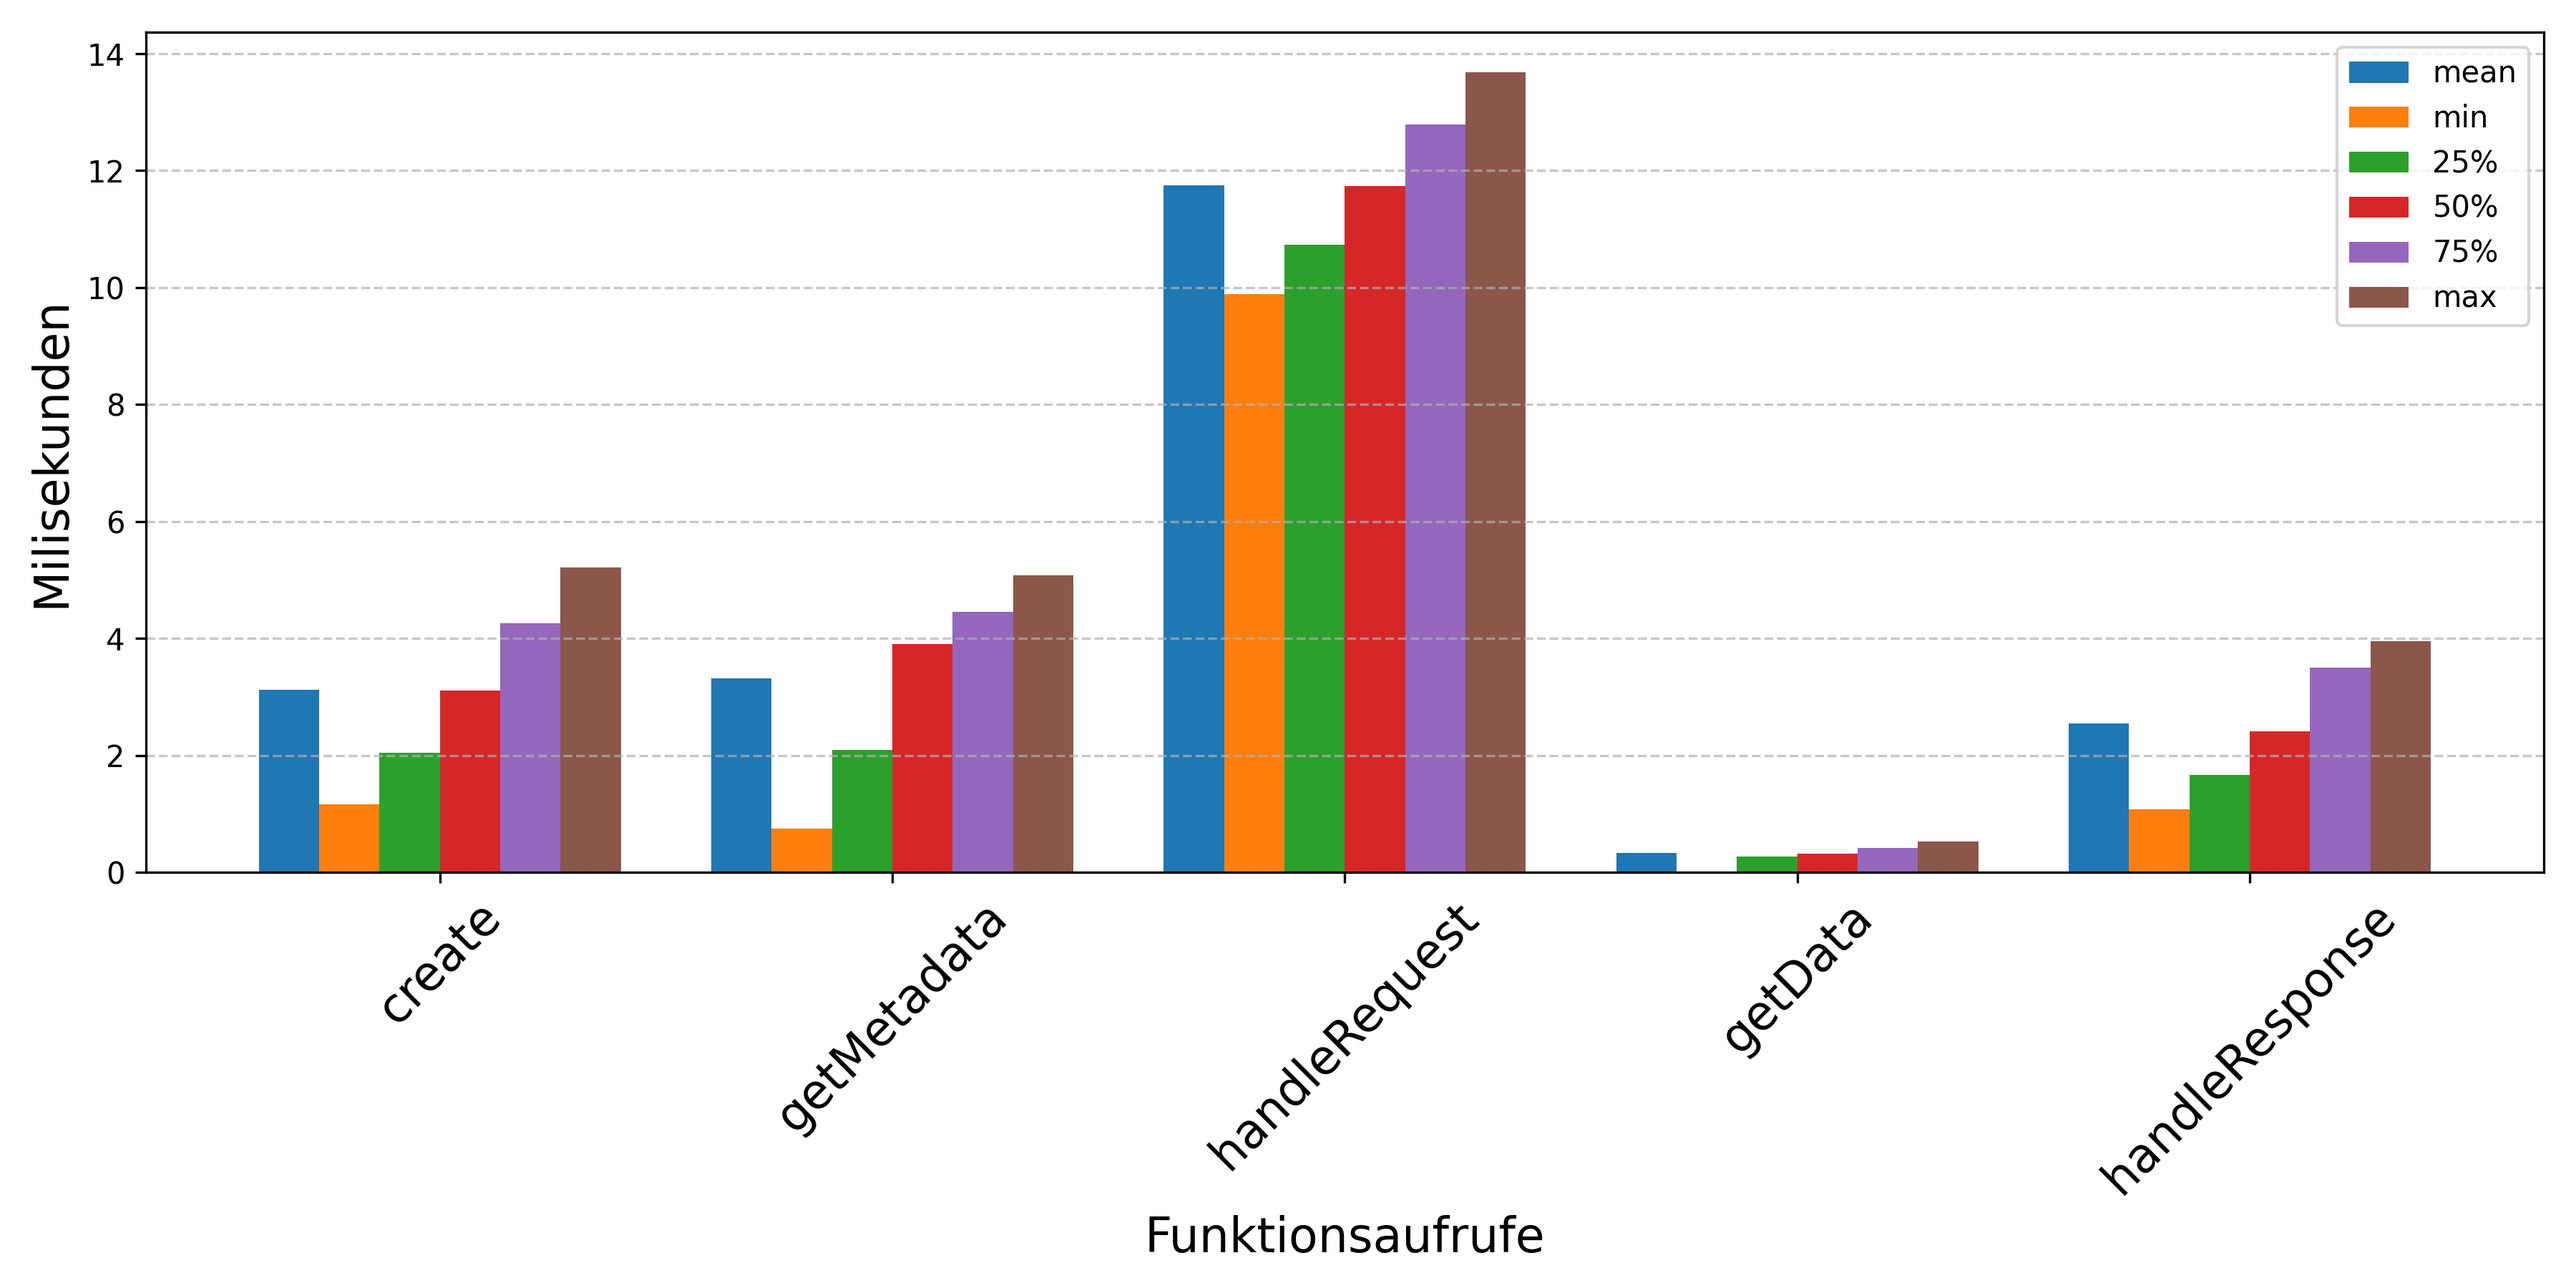
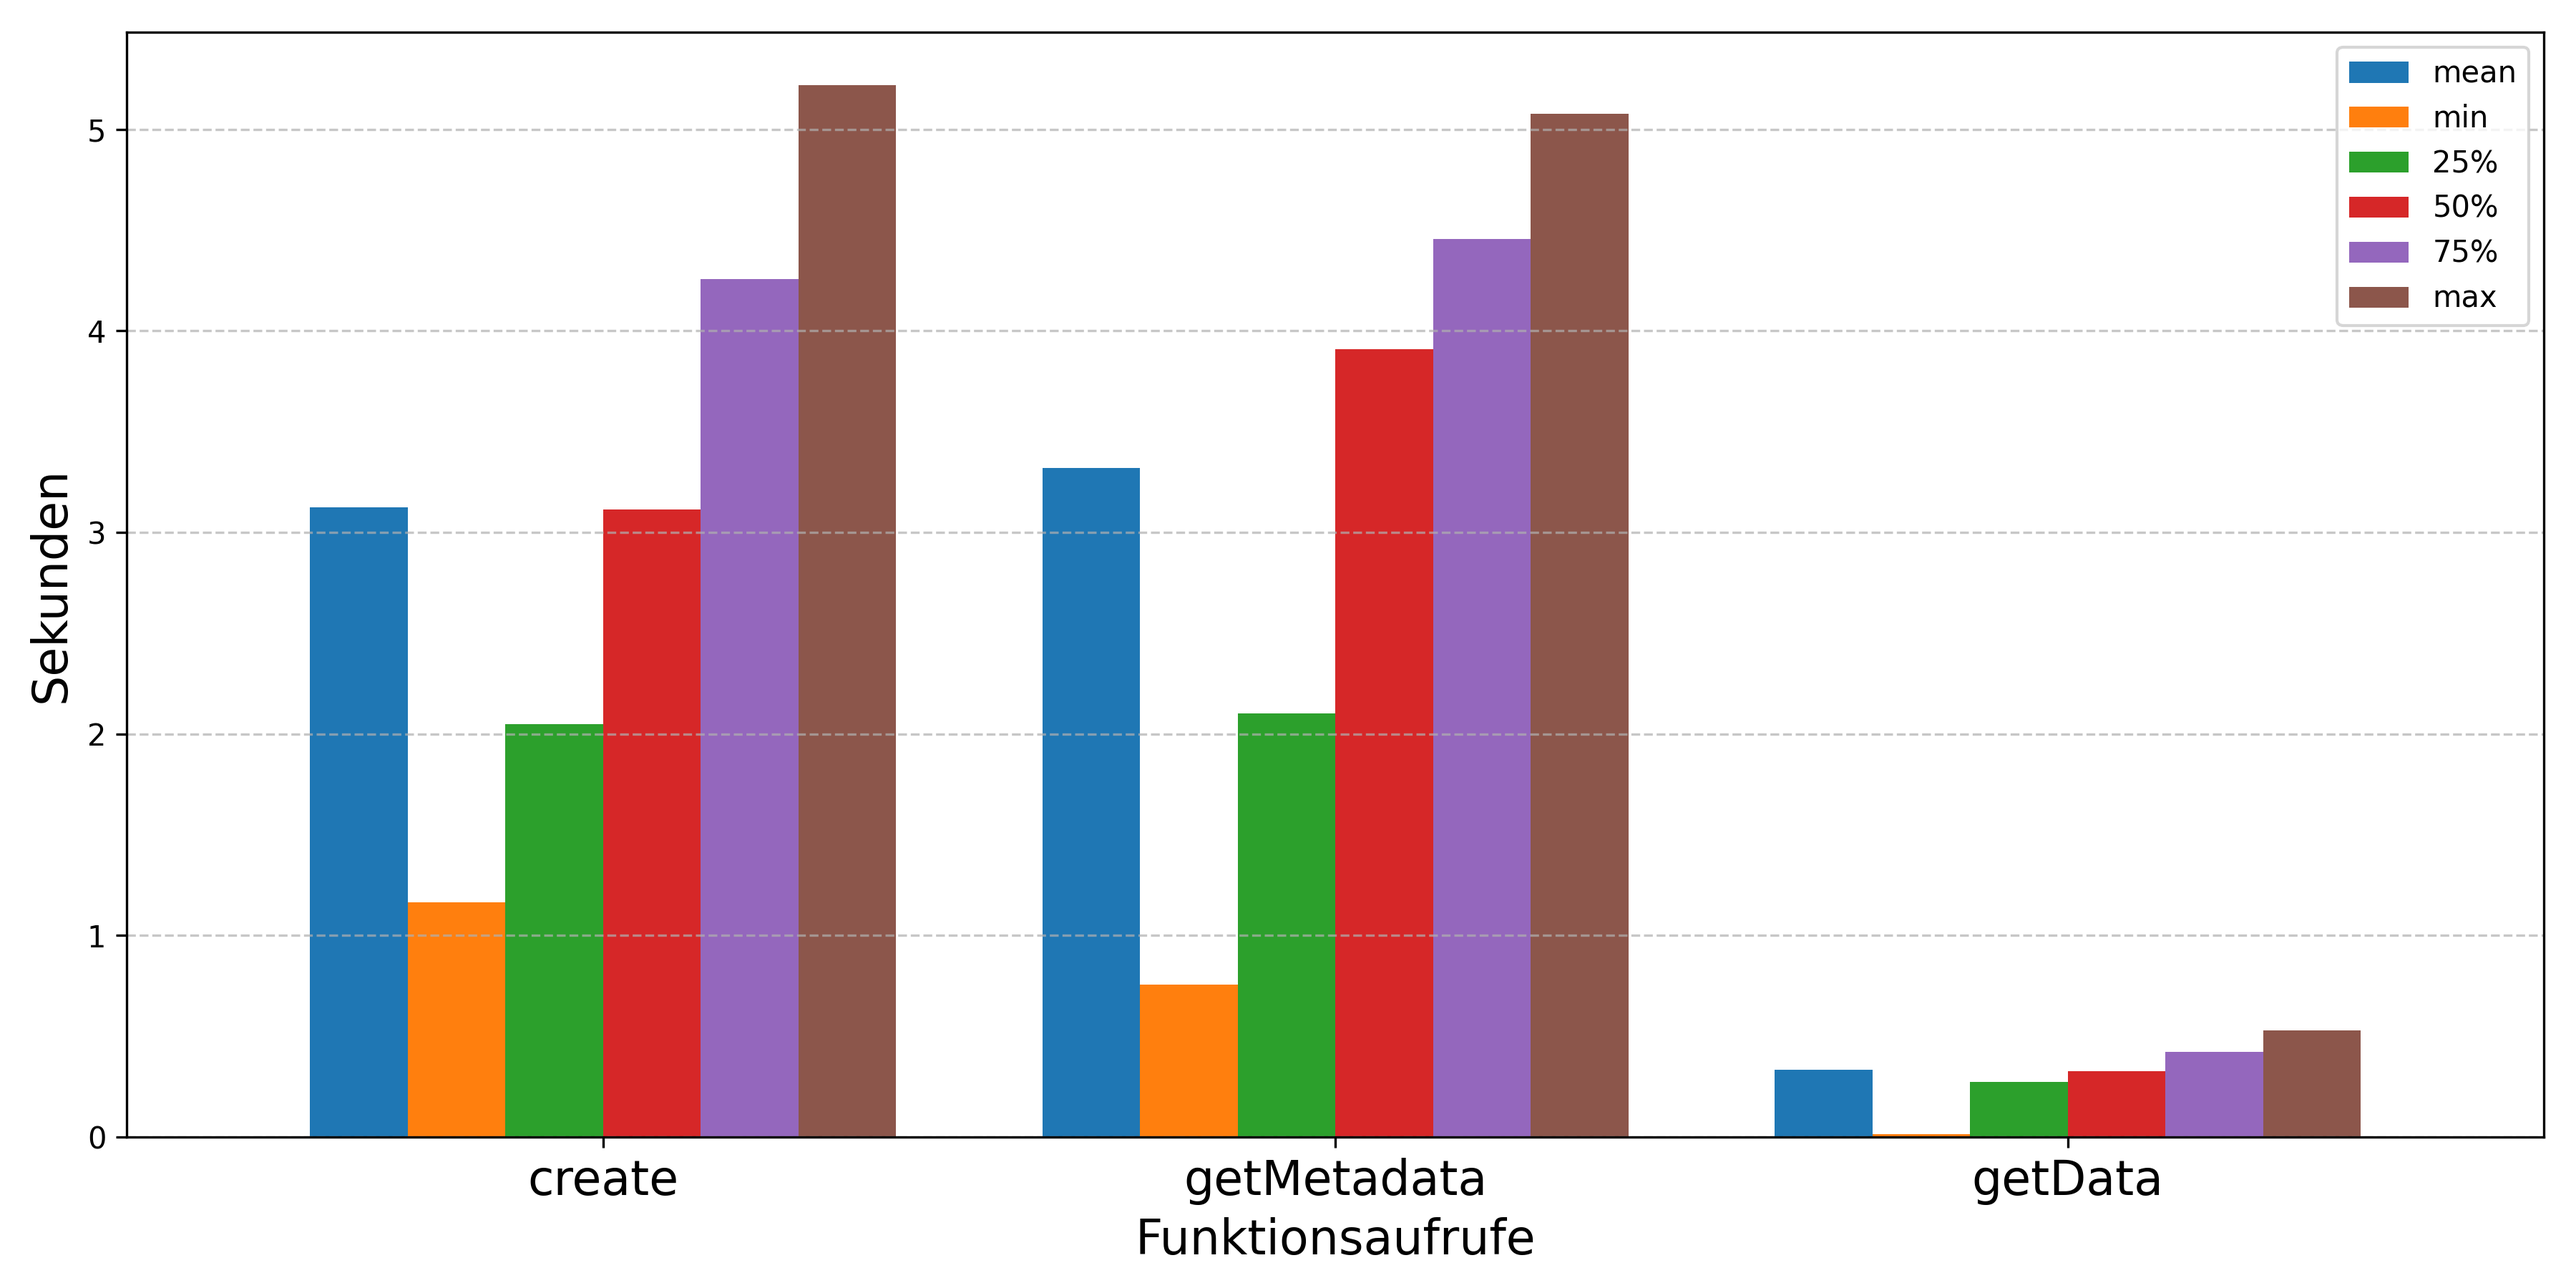
small graph change

diff --git a/Fabric/basic application/application-gateway-javascript/metrics/metrics.py b/Fabric/basic application/application-gateway-javascript/metrics/metrics.py
@@ -18,14 +18,14 @@ if __name__ == "__main__":
             df = pd.DataFrame(d[k], columns=[k]).describe()
             print(df)
             descriptions.append(df)
-        merged = pd.concat(descriptions, axis=1).drop(["count", "std"], axis=0)
+        merged = pd.concat(descriptions, axis=1).drop(["count", "std"], axis=0).drop(["handleRequest", "handleResponse"], axis=1)
         transposed = merged.T
 
         # Graph erstellen
         transposed.plot(kind='bar', figsize=(12, 6), width=0.8)
         plt.xlabel("Funktionsaufrufe", fontsize=16)
-        plt.ylabel("Milisekunden", fontsize=16)
-        plt.xticks(rotation=45, fontsize=16)
+        plt.ylabel("Sekunden", fontsize=16)
+        plt.xticks(rotation=0, fontsize=16)
         plt.grid(axis='y', linestyle='--', alpha=0.7)
 
         # Speichern
